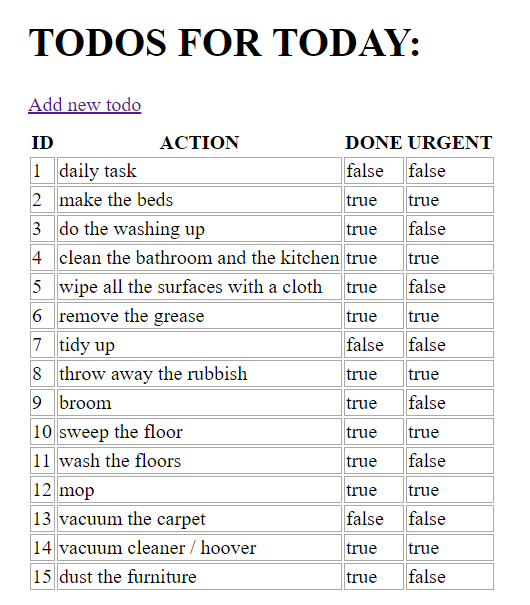
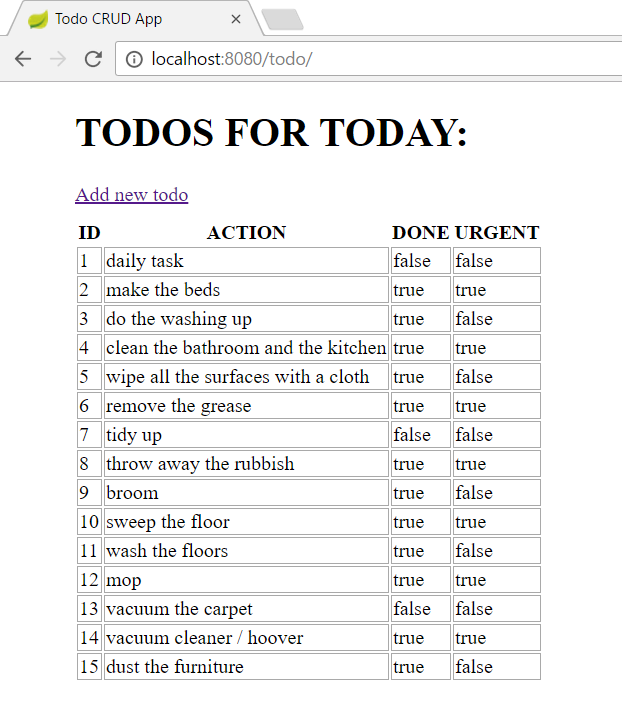
fix(java-spring-jpa):fix readme, printscreens, refactor ws02

Changed region(s): [[0.0604, 0.1488, 0.9358, 0.9818], [0.0, 0.0, 1.0, 0.119]]

diff --git a/workshop/java-spring-jpa/workshops/02-workshop.md b/workshop/java-spring-jpa/workshops/02-workshop.md
@@ -1,5 +1,4 @@
 # Workshop02 Connection with MySQL
-
 - Create a new Spring project with Gradle
 - Add dependencies:
   - JPA, MySQL, Web, Thymeleaf
@@ -14,24 +13,25 @@
 
 #### Configuration
 - Configure application.properties file in the needed structure
-- Add url, localhost:3306 (most probably, if not check in Data Sources and Drivers in IntelliJ or in MySQL with 'SHOW variables LIKE "%port%";' command or in Workbench)
 
-- Add MySQL username, password (**you should set it to something general first like "12345", because it will be committed to github**)
+```java
+spring.datasource.url=jdbc:mysql://localhost/reddit
+spring.datasource.username=root
+spring.datasource.password=12345
+spring.jpa.hibernate.ddl-auto=create-drop
+spring.jpa.properties.hibernate.dialect=org.hibernate.dialect.MySQL5Dialect
+spring.logging.level.org.hibernate.SQL = debug
+spring.jpa.show-sql = true
+```
 
-- Add "spring.jpa.show-sql = true"
-
+- MySQL  password (**set it to something general first like "12345", because it will be committed to github**)
 
 - Add hibernate ddl auto (create, create-drop, update):         
-    - spring.jpa.hibernate.ddl-auto=create
-      - with "create" first
-      - and after first recompiling, with "update", so the database schema will be automatically updated accordingly to java entities found in the project
+  - with "create-drop" first
+  - and after first recompiling, with "update", so the database schema will be automatically updated accordingly to java entities found in the project
 
-
-- Add "spring.jpa.properties.hibernate.dialect = org.hibernate.dialect.MySQL5Dialect"
-
-- Add "spring.logging.level.org.hibernate.SQL = debug"
 
 
 ### Run the program
-- If you did well then a new and empty "todo" table should appear with 4 columns(id, title, isUrgent, isDone) in MySQL.
+- If you did well then a new and empty "todo" table should appear with 4 columns(id, title, isUrgent, isDone) in [MySQL](../assets/EmptyTodosWB.PNG).
 - And your webpage should look [like this](../assets/EmptyTodos.PNG).

diff --git a/workshop/java-spring-jpa/README.md b/workshop/java-spring-jpa/README.md
@@ -46,17 +46,15 @@ Java Persistence API is a collection of classes and methods to persistently stor
 - @NamedQuery
 
 ## Workshops
-- create a SpringBoot project with Gradle
-- add dependencies:
-  - JPA
-  - Web
-  - Thymeleaf
-- optional dependencies:
-  - DevTools
-  - Lombok
-
-The Workshops are:
 - [01 - Listing Todos from embedded database](./workshops/01-workshop.md)
 - [02 - Connection with MySQL](./workshops/02-workshop.md)
 - [03 - Listing Todos from MySQL](./workshops/03-workshop.md)
 - [04 - Add creating function](./workshops/04-workshop.md)
+- [05 - Add deleting function](./workshops/05-workshop.md)
+- [06 - Add updating function](./workshops/06-workshop.md)
+
+### Optional
+- Add line item details to the meal, for each part of the meal, to break up the calories
+- Add service package and Service class. Refactor every method from Controller that doesn't relate strictly there.
+learning about how to call a webservice
+Create a calendar view that shows, day by day meals eaten, total calories
